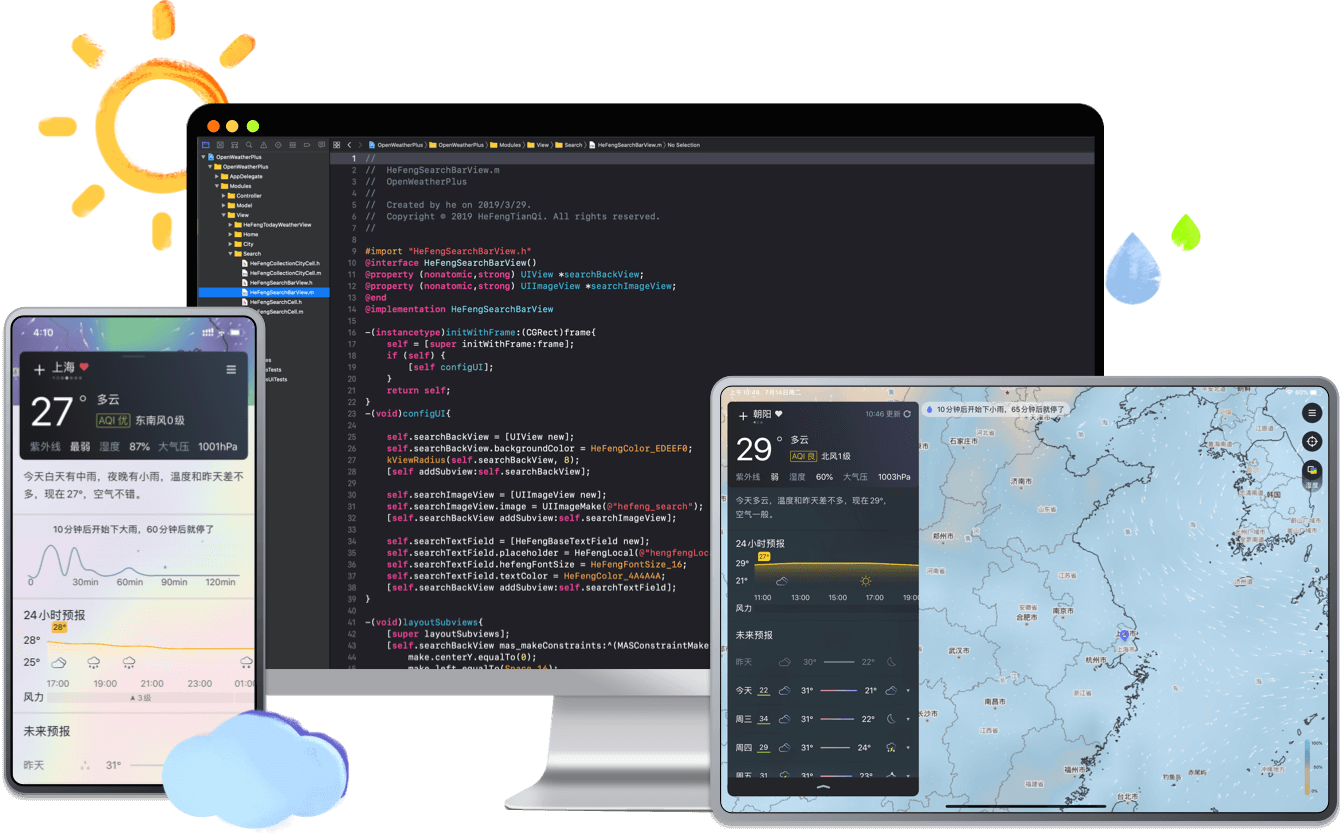
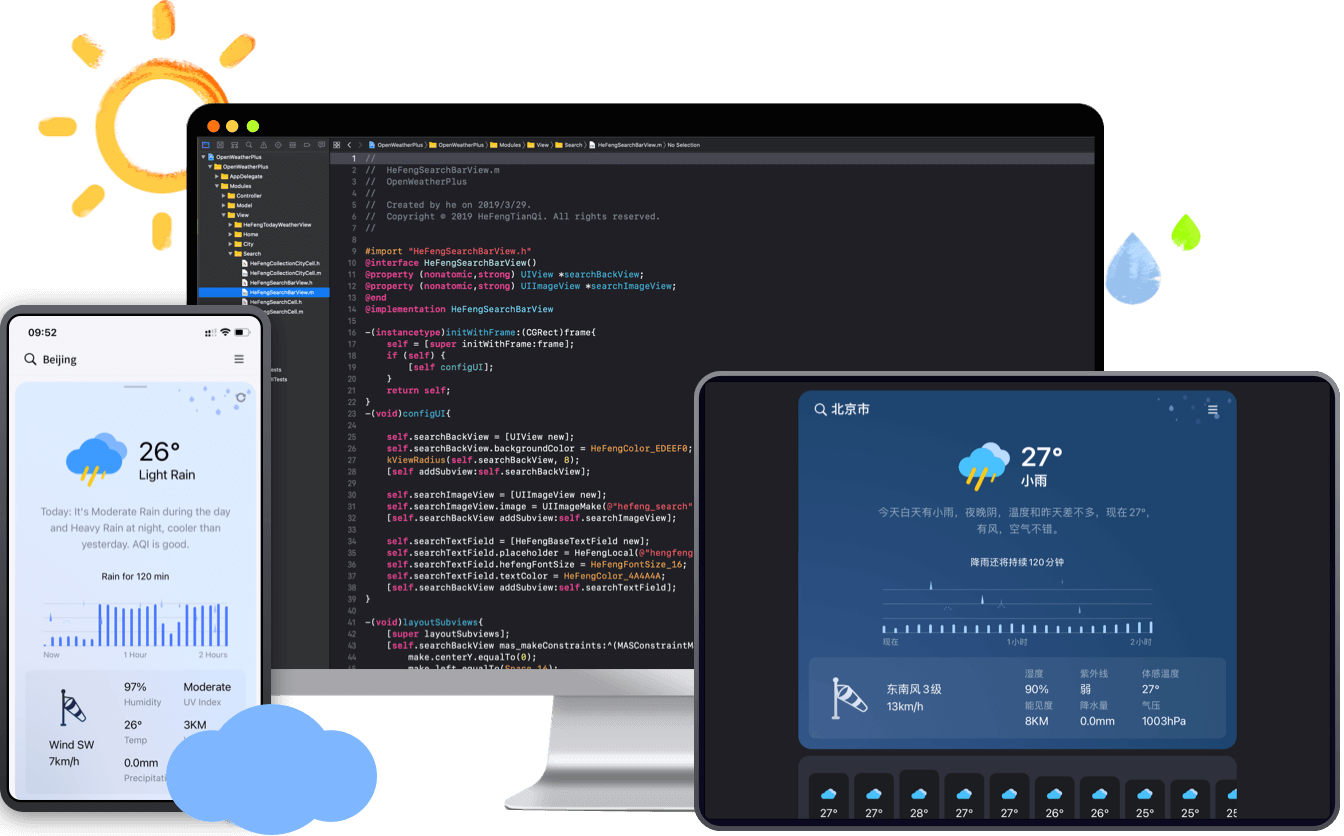
update QWeather APP 3.0 screenshot Use QW APP 3.0 screenshot to replace the old version

diff --git a/pages_en/index.html b/pages_en/index.html
@@ -137,7 +137,7 @@ ref: home
                             target="_blank" rel="noopener noreferrer">
                             <h2>{{ site.data.t[page.lang].getapp }}</h2>
                             <p>{{ site.data.t[page.lang].hp-getapp-des }}</p>
-                            <img src="/assets/images/hp-card-download-app.png" alt="Download QWeather APP">
+                            <img src="/assets/images/hp-card-download-app-{{- page.lang -}}.png" alt="Download QWeather APP">
                         </a>
                     </div>
                 </div>

diff --git a/pages_zh/index.html b/pages_zh/index.html
@@ -137,7 +137,7 @@ ref: home
                             target="_blank" rel="noopener noreferrer">
                             <h2>{{ site.data.t[page.lang].getapp }}</h2>
                             <p>{{ site.data.t[page.lang].hp-getapp-des }}</p>
-                            <img src="/assets/images/hp-card-download-app.png" alt="Download QWeather APP">
+                            <img src="/assets/images/hp-card-download-app-{{- page.lang -}}.png" alt="Download QWeather APP">
                         </a>
                     </div>
                 </div>
